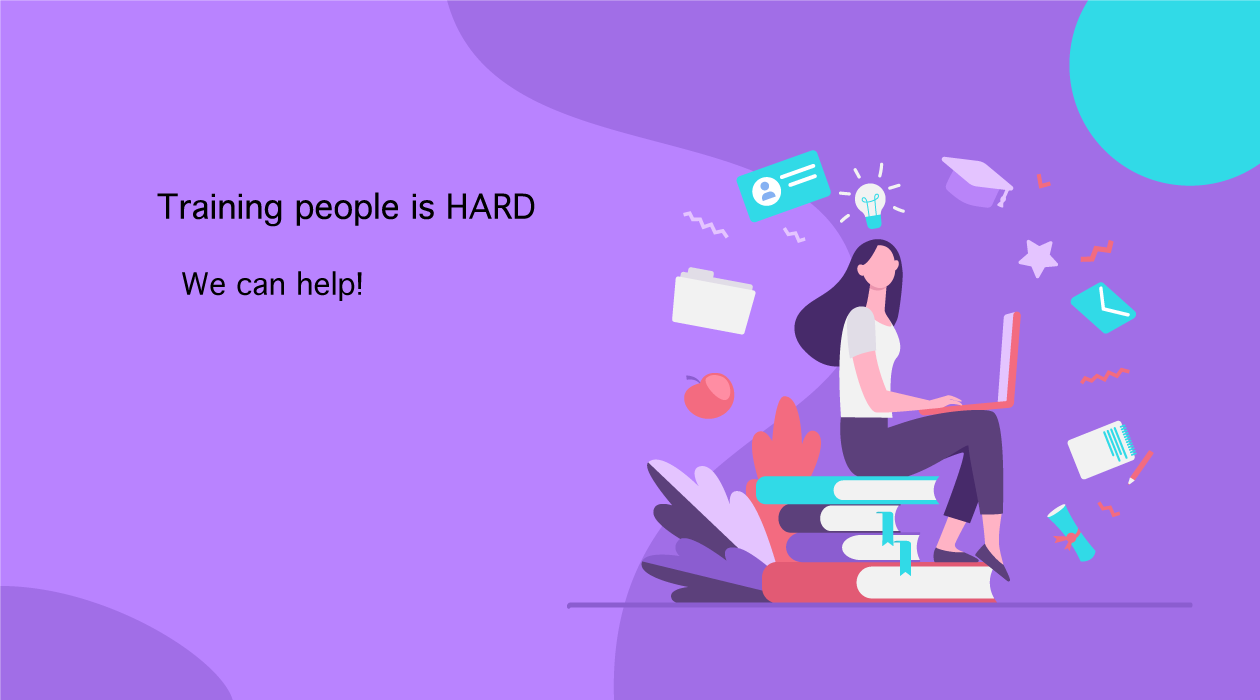
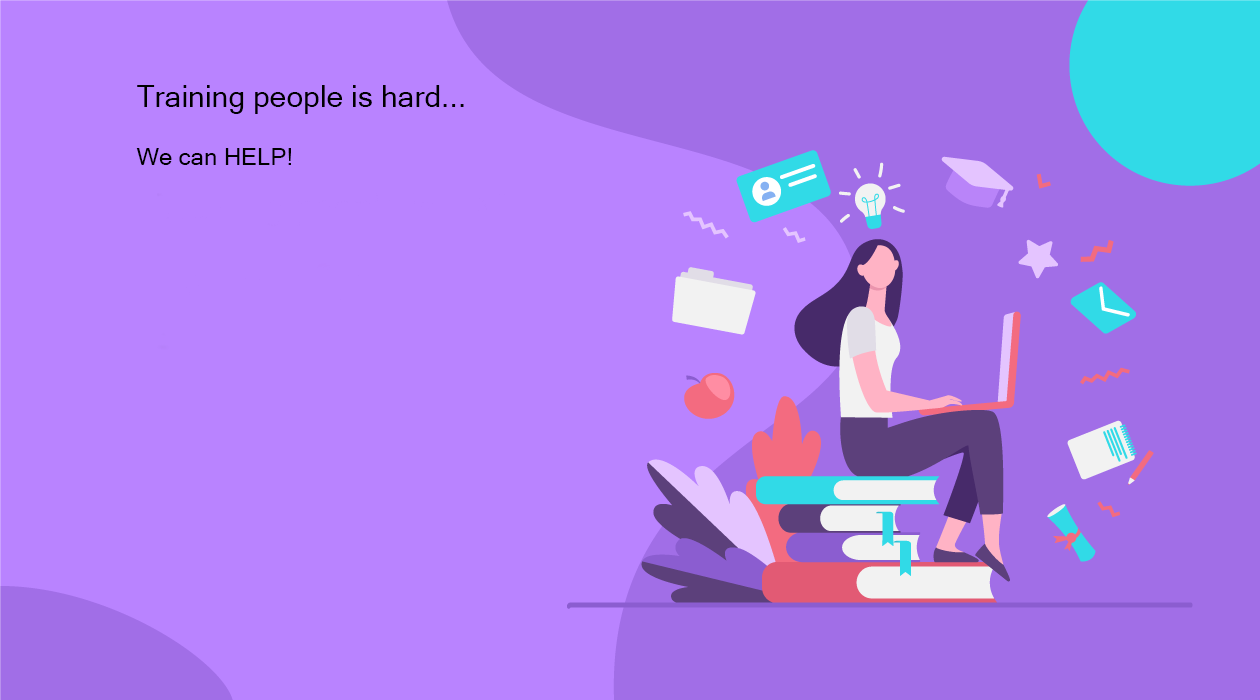
landing page NAYDO special

diff --git a/src/app/components/landingpage/landingpage.component.ts b/src/app/components/landingpage/landingpage.component.ts
@@ -2,7 +2,7 @@ import { Component, OnInit, ViewEncapsulation } from '@angular/core';
 import { Location } from '@angular/common';
 import { AuthService } from '../../shared/services/auth.service';
 import { UserService } from '../../shared/services/user.service';
-import { BehaviorSubject, Observable, Subscription } from 'rxjs';
+import { BehaviorSubject, interval, Observable, Subscription } from 'rxjs';
 import { UserModel } from '../../shared/interfaces/user.type';
 import { Router, NavigationEnd, ActivatedRoute, NavigationCancel, NavigationStart, NavigationError, Event as NavigationEvent } from '@angular/router';
 import { ScrollToAnimationEasing } from '@nicky-lenaers/ngx-scroll-to';
@@ -10,9 +10,17 @@ import { VgAPI } from 'videogular2/compiled/core';
 import { SafeResourceUrl } from '@angular/platform-browser';
 import { animate, state, style, transition, trigger } from '@angular/animations';
 import { TrainingService } from '../../shared/services/training.service';
-import { filter, takeUntil} from 'rxjs/operators';
+import { filter, takeUntil } from 'rxjs/operators';
 import { BaseComponent } from '../base.component';
+import { map, shareReplay } from "rxjs/operators";
 
+
+interface timeComponents {
+  secondsToDday: number;
+  minutesToDday: number;
+  hoursToDday: number;
+  daysToDday: number;
+}
 
 @Component({
   selector: 'app-landingpage',
@@ -38,7 +46,7 @@ import { BaseComponent } from '../base.component';
   ]
 })
 
-export class LandingpageComponent extends BaseComponent  implements OnInit {
+export class LandingpageComponent extends BaseComponent implements OnInit {
 
   vgApi: VgAPI;
   taskVideo$: Observable<SafeResourceUrl>;
@@ -87,7 +95,7 @@ export class LandingpageComponent extends BaseComponent  implements OnInit {
   benefits = [
     {
       focus: false,
-      title: 'One Click Deployment',
+      title: 'One Click Deploy',
       class: 'fal fa-rocket-launch red',
       blurb: 'Deploy to your entire organization in a matter of minutes, not weeks!',
       learnMore: '',
@@ -128,7 +136,7 @@ export class LandingpageComponent extends BaseComponent  implements OnInit {
     {
       focus: false,
       title: 'Automated Reporting',
-      class: 'fal fa-chart-bar',
+      class: 'fal fa-chart-bar gold',
       blurb: 'Track training status, due dates, certification expiration dates, ' +
         'and more.  All delivered to you at your timing without ever logging into the site.',
       learnMore: '',
@@ -137,7 +145,7 @@ export class LandingpageComponent extends BaseComponent  implements OnInit {
     {
       focus: false,
       title: 'Reduced Legal Liability',
-      class: 'fal fa-balance-scale-right',
+      class: 'fal fa-balance-scale-right chartreuse',
       blurb: 'Reduced legal exposure KNOWING that all employees and volunteers are appropriately trained/certified.',
       learnMore: '',
       videoLink: null
@@ -145,7 +153,7 @@ export class LandingpageComponent extends BaseComponent  implements OnInit {
     {
       focus: false,
       title: 'Not Just for Employees',
-      class: 'fal fa-hands-helping',
+      class: 'fal fa-hands-helping blueviolet',
       blurb: 'Lets you manage volunteer and customer training too!',
       learnMore: '',
       videoLink: null
@@ -153,7 +161,7 @@ export class LandingpageComponent extends BaseComponent  implements OnInit {
     {
       focus: false,
       title: 'Training Versioning',
-      class: 'fal fa-copy',
+      class: 'fal fa-copy darkturquoise',
       blurb: 'Robust versioning of trainings.',
       learnMore: '',
       videoLink: null
@@ -301,6 +309,7 @@ export class LandingpageComponent extends BaseComponent  implements OnInit {
   lname;
   email;
   trialEnd;
+  public timeLeft$: Observable<timeComponents>;
 
   constructor(
     private auth: AuthService,
@@ -342,6 +351,10 @@ export class LandingpageComponent extends BaseComponent  implements OnInit {
       }
     });
 
+    this.timeLeft$ = interval(1000).pipe(
+      map(x => this.calcDateDiff()),
+      shareReplay(1)
+    );
     this.currentVideo = this.explainerUrl;
     /*
     this.taskVideo$.subscribe(safeUrl => {
@@ -399,6 +412,38 @@ export class LandingpageComponent extends BaseComponent  implements OnInit {
           (userCnt - this.userRange[1]) * this.planCostPerUserHash[plan][2];
       }
     }
+  }
+
+  calcDateDiff(endDay: Date = new Date("2021-4-16")): timeComponents {
+    const dDay = endDay.valueOf();
+
+    const milliSecondsInASecond = 1000;
+    const hoursInADay = 24;
+    const minutesInAnHour = 60;
+    const secondsInAMinute = 60;
+
+    const timeDifference = dDay - Date.now();
+
+    const daysToDday = Math.floor(
+      timeDifference /
+      (milliSecondsInASecond * minutesInAnHour * secondsInAMinute * hoursInADay)
+    );
+
+    const hoursToDday = Math.floor(
+      (timeDifference /
+        (milliSecondsInASecond * minutesInAnHour * secondsInAMinute)) %
+      hoursInADay
+    );
+
+    const minutesToDday = Math.floor(
+      (timeDifference / (milliSecondsInASecond * minutesInAnHour)) %
+      secondsInAMinute
+    );
+
+    const secondsToDday =
+      Math.floor(timeDifference / milliSecondsInASecond) % secondsInAMinute;
+
+    return { secondsToDday, minutesToDday, hoursToDday, daysToDday };
   }
 
   showLearnMore(index) {

diff --git a/src/app/components/landingpage/landingpage.component.html b/src/app/components/landingpage/landingpage.component.html
@@ -125,44 +125,53 @@
     <div class="special-offer">
       <div style="color:chartreuse;height:10%;font-size:2.5vw;">
         <span style="display:block;font-weight:400;color:white;">NAYDO Special</span>
-        <span style="display:block;font-weight:400;margin-top:5%;">Join Early Access!</span>
+        <span style="display:block;font-weight:400;">Join Early Access!</span>
+        <span style="display:block;font-size:1vw;font-weight:400;">April 13, 2021 - June 30, 2021</span>
       </div>
       <div class="special-offer-text">
         <div style="text-align: left;">
           <ul>
             <li>4 hours consulting time</li>
-            <li>15% discount on first year</li>
+            <li>20% discount on first year</li>
             <li>input on roadmap</li>
           </ul>
         </div>
       </div>
       <div>
-        <span style="font-size:2vw;vertical-align:super;color:chartreuse;">only</span><br>
-        <span style="font-size:2vw;vertical-align:super;color:chartreuse;">$</span>
-        <span style="font-size:4vw;font-weight:400;color:chartreuse;">995</span><br>
+        <span style="font-size:1vw;vertical-align:super;color:chartreuse;">only</span><br>
+        <span style="font-size:1.5vw;vertical-align:super;color:chartreuse;">$</span>
+        <span style="font-size:2.5vw;font-weight:400;color:chartreuse;">995</span><br>
         <a href="javascript:void(0)" data-cb-type="checkout" data-cb-plan-id="early-access">
 
           <button nz-button nzShape="round" nzType="default" id="checkout-button" nzGhost
-            style="color:chartreuse;font-size:2vw;border:1px solid chartreuse;margin-top:5%;">
+            style="color:chartreuse;font-size:1.5vw;border:1px solid chartreuse;margin-top:5%;">
             Sign Me Up!
           </button>
         </a>
 
       </div>
+      <div class="timer" *ngIf="(timeLeft$ | async) as t; else sorry" style="color:black;">
+        <br>
+        <span style="font-size: 1.1vw;"> Offer Expires on April 16, 2021 </span>
+        <br>
+        <span id="days" style="font-size:2vw;"> {{t.daysToDday}}</span>days
+        <span id="hours" style="font-size:2vw;"> {{t.hoursToDday}}</span>hrs
+        <span id="minutes" style="font-size:2vw;"> {{t.minutesToDday}}</span>min
+        <span id="seconds" style="font-size:2vw;"> {{t.secondsToDday}}</span>sec
+      </div>
     </div>
 
     <img src="assets/images/landing-banner.png" style="" width="100%" height="100%">
-    <div style="position:absolute;top:50%;left:20%;">
+    <div style="position:absolute;top:20%;left:30%;">
       <i class="fas fa-play-circle opaque" style="cursor:pointer;text-align:center;font-size:3vw;color:black;"
         (click)="loadVideo('explainer')"></i>
     </div>
   </div>
   <div style="width:100%;height:100%;">
     <div
-      style="padding:1vw;background-color:rgba(220, 220, 220, .7);position:fixed;top:0;left:0;right:0;font-size: 1vw;z-index: 100;text-align: center;width:100%;">
-      <div
-        style="position: absolute;left: 1vw;top: 1vw;border-radius:2vw;padding: .5vw 1vw; background: rgba(255,255,255,.3);margin-right:.2vw;">
-        <img width="100vw" src="assets/images/logo/logo.png">
+      style="padding:.6vw;background-color:rgba(220, 220, 220, .7);position:fixed;top:0;left:0;right:0;font-size: 1vw;z-index: 100;text-align: center;width:100%;">
+      <div style="float:left;border-radius:2vw;padding: .5vw 1vw; background: rgba(255,255,255,.3);margin-right:.2vw;">
+        <img width="120vw" src="assets/images/logo/logo.png">
       </div>
 
       <div class="nav-link">

diff --git a/src/app/components/landingpage/landingpage.component.css b/src/app/components/landingpage/landingpage.component.css
@@ -68,8 +68,20 @@ opacity:1.0;
   color:green;
 }
 
-.red {
-  color:red;
+.gold {
+  color:gold;
+}
+
+.chartreuse {
+  color:chartreuse;
+}
+
+.blueviolet {
+  color:blueviolet;
+}
+
+.darkturquoise {
+  color:darkturquoise;
 }
 
 .purple {
@@ -1150,18 +1162,15 @@ textarea.form-control {
   text-align: center;
   position:absolute;
   bottom:2%;
-  right:3%;
+  left:3%;
   z-index:1;
   width:30%;
   height:fit-content;
   padding:1vw;
   border:4px solid black;
-  background: rgba(60, 60, 60, .4);
+  background: rgba(60, 60, 60, .5);
 }
 
-.special-offer:hover {
-    background: rgba(60, 60, 60, .8);
-}
 
 .play-screencast {
   display:block;
